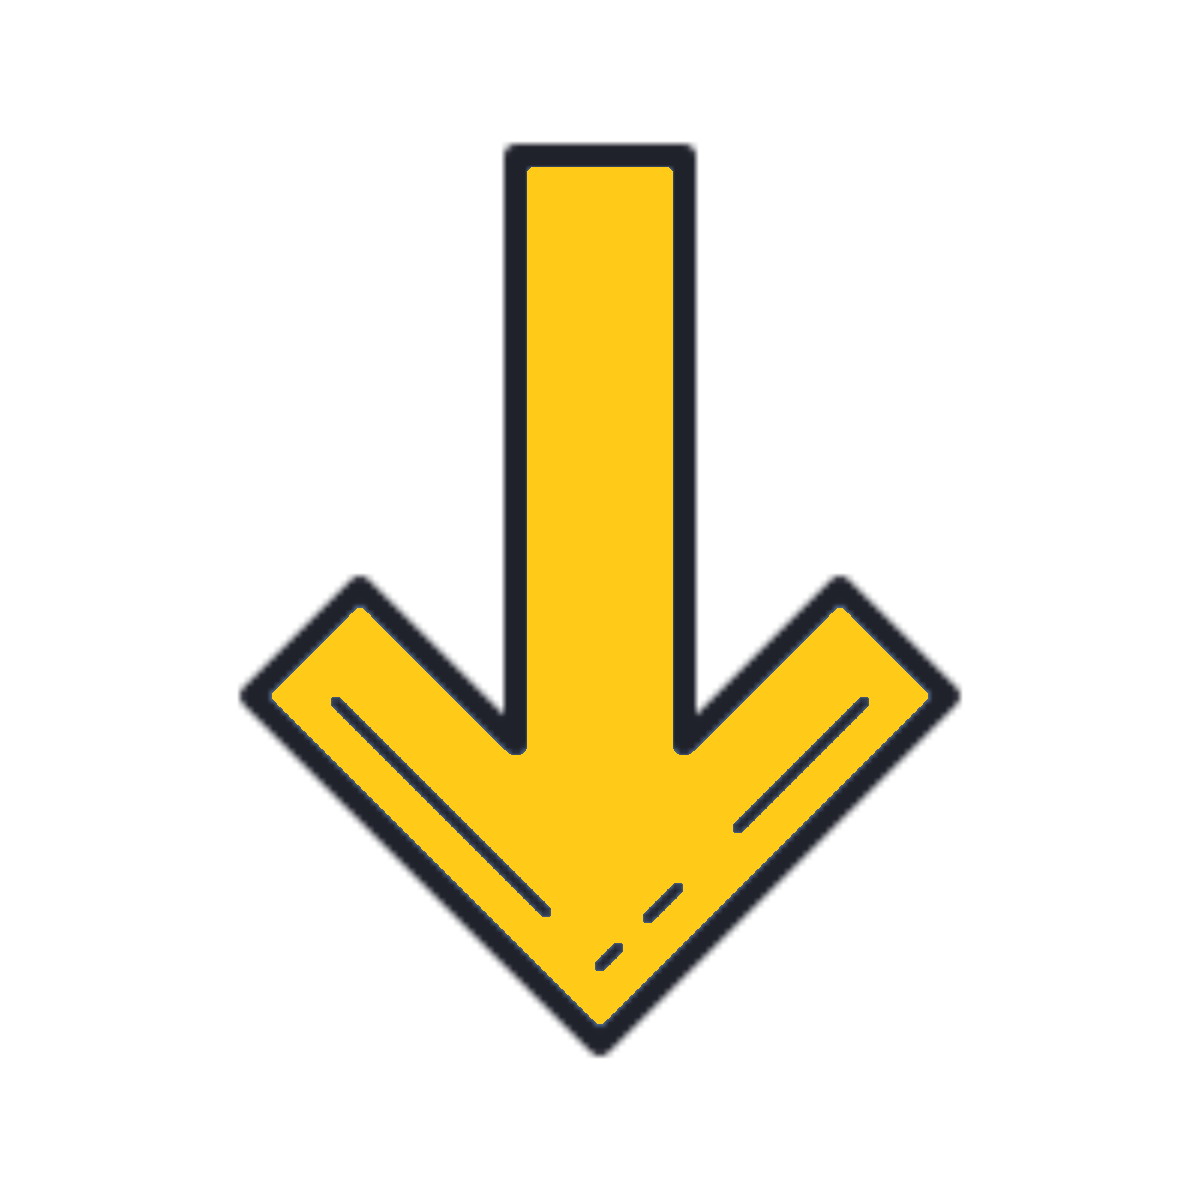
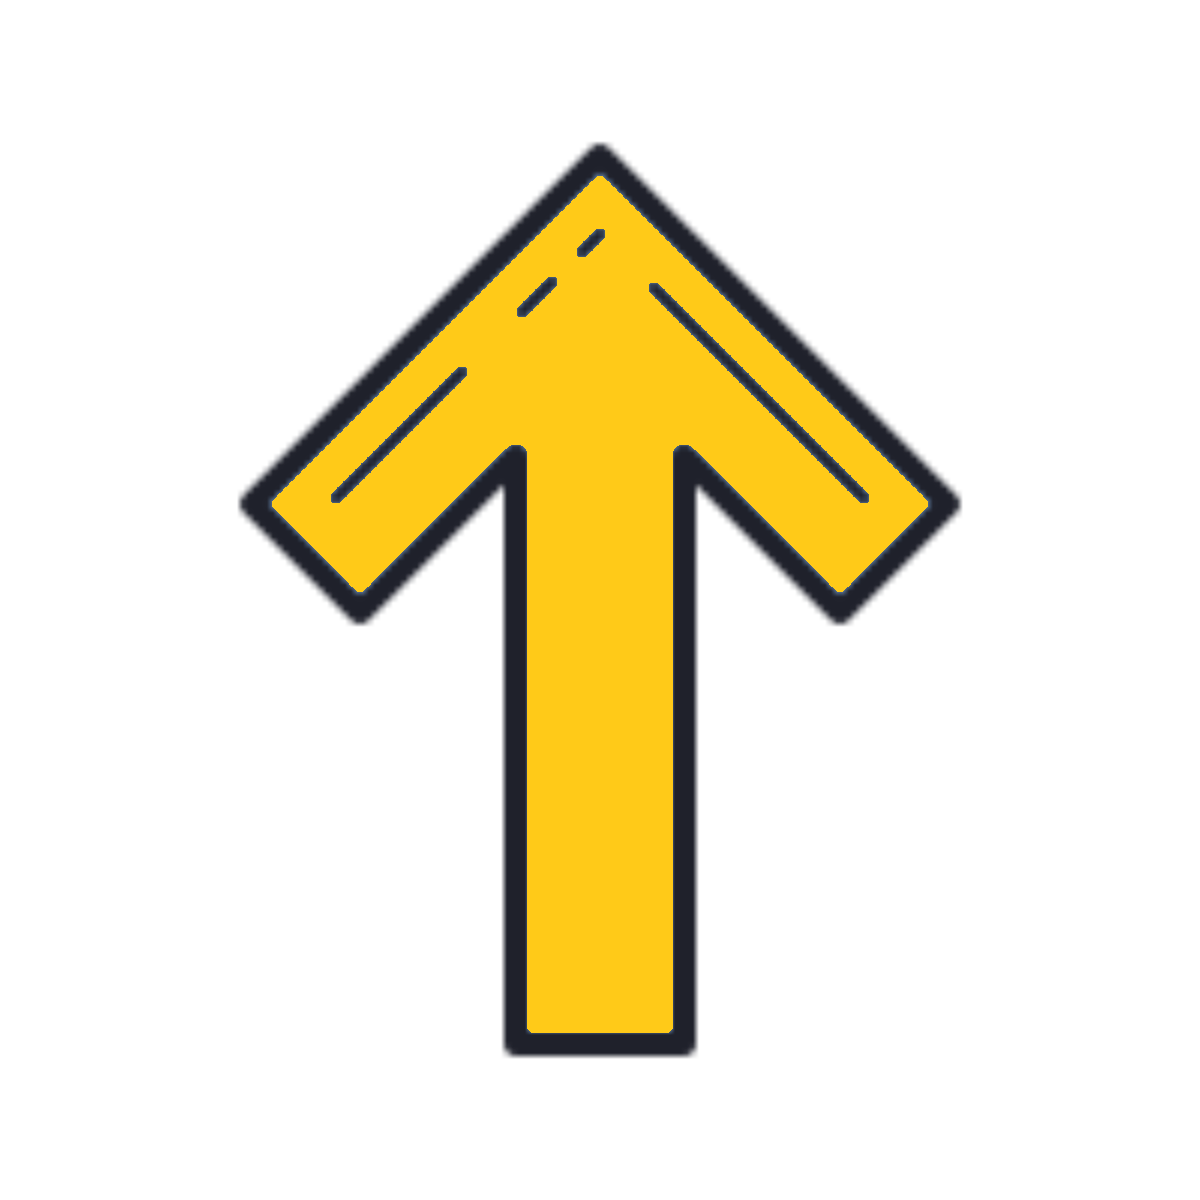
att seta

Changed region(s): [[0.185, 0.0925, 0.8017, 0.8942], [0.4933, 0.7708, 0.5242, 0.8017]]

diff --git a/index.html b/index.html
@@ -8,12 +8,15 @@
     <link rel="stylesheet" href="./estilo/style.css">
     <title>Frases Memoraveis Senhor dos Aneis</title>
 </head>
-<header>
-    <h1>Senhor dos AneiS</h1>
-    <p>Frases Memoraveis</p>
-</header>
+<a href="#" id="seta"><img src="imagens/seta.png" alt="Seta"></a>
+
 
 <body>
+    <header>
+        <h1>Senhor dos AneiS</h1>
+        <p>Frases Memoraveis</p>
+    
+    </header>
     <main>
         <div class="theoden"> 
             <p>
@@ -45,9 +48,7 @@
         </div>
 
     </main>
-    <script>
-        window.alert("teste")
-    </script>
+   
     
 </body>
 <footer>

diff --git a/estilo/style.css b/estilo/style.css
@@ -8,6 +8,13 @@
     padding: 0px;
     
 }
+#seta img{
+    position: fixed;
+    bottom: 30px;
+    right: 60px;
+    width: 150px;
+    height: 150px;
+}
 header{
     font-size: 4vh;
     background-color: black;
